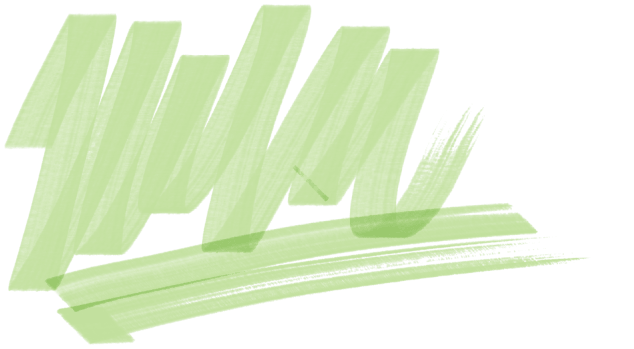
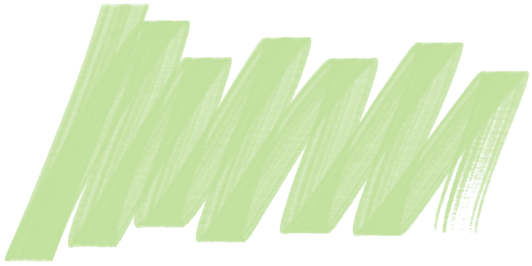
Update images and adjust layout in index.html
Replaced doodle-3b.png and og.png images with updated versions. Modified layout and spacing styles in index.html for improved visual alignment, adjusted image sizes, padding, and gap values, and updated the attendee count from 1 to 2.

diff --git a/index.html b/index.html
@@ -79,8 +79,8 @@
   <body>
     <main>
       <div>
-        <div style="display: flex; flex-direction: column; justify-content: center; align-items: center; gap: 24px; min-height: 100svh; padding-bottom: 174px;">
-          <img width="52" height="150" style="margin-left: -12px;" src="./images/doodle-1.png">
+        <div style="display: flex; flex-direction: column; justify-content: center; align-items: center; gap: 21px; min-height: 100svh; padding-bottom: 119px;">
+          <img width="34" height="148" style="margin-left: -12px;" src="./images/doodle-1.png">
           <div style="margin-left: 1px; position: relative; display: flex; flex-direction: column; justify-content: space-between; width: 424px; max-width: calc(100% - 38px); height: 234px; padding: 20px 36px 22px 26px; background-size: 100% 100%; background-image: url('./images/envelope.png');">
             <img style="position: absolute; top: 18px; right: 22px; height: 75px;" src="./images/stamp.png">
             <div style="align-self: flex-start; color: #000; line-height: 17px; letter-spacing: 0.009em; font-size: 13px; font-weight: 200;">
@@ -105,10 +105,10 @@
       <div style="background: linear-gradient(to bottom, rgba(0, 0, 0, 0), rgba(0, 0, 0, 0.0625));">
         <div style="position: sticky; top: 0; display: flex; flex-direction: column; justify-content: center; align-items: center; min-height: 100lvh;">
           <div style="position: relative;">
-            <div style="color: #000; letter-spacing: -0.027em; font-size: 40px; font-family: Gaegu, system-ui;">멀리 달리 살았지만</div>
+            <div style="color: #000; letter-spacing: -0.022em; font-size: 40px; font-family: Gaegu, system-ui;">멀리 달리 살았지만</div>
             <img width="384" height="82" style="position: absolute; left: -51px; bottom: -69px;" src="./images/doodle-2.png">
           </div>
-          <div style="position: relative; z-index: 1; margin-top: 24px; display: flex; flex-direction: column; justify-content: center; align-items: center; gap: 10px;">
+          <div style="position: relative; z-index: 1; margin-top: 22px; display: flex; flex-direction: column; justify-content: center; align-items: center; gap: 10px;">
             <div style="color: #555; letter-spacing: -0.02em; font-size: 17px; font-weight: 450;">연말 파티</div>
             <div style="color: #555; letter-spacing: -0.022em; font-size: 17px; font-weight: 450;">2025.12.31 ─ 연남동 공상온도</div>
           </div>
@@ -132,7 +132,7 @@
             <div style="margin-top: 17px; color: #111; line-height: 42px; letter-spacing: -0.034em; font-size: 27px; font-family: Gaegu, system-ui;">2025년 12월 31일<br>오후 7시부터 10시 15분까지</div>
           </div>
           <div style="padding-right: 22px; padding-left: 22px; text-align: center;">
-            <div class="kr-extrabold" style="margin-right: -30px; display: inline-block; padding: 17px 52px 23px 22px; background-size: 100% 100%; background-image: url('./images/doodle-3b.png'); color: #666; letter-spacing: -0.013em; font-size: 16px;">만날 곳</div>
+            <div class="kr-extrabold" style="margin-right: -4px; display: inline-block; padding: 20px 25px 15px 21px; background-size: 100% 100%; background-image: url('./images/doodle-3b.png'); color: #666; letter-spacing: -0.013em; font-size: 16px;">만날 곳</div>
             <div style="margin-top: 17px; color: #111; line-height: 42px; letter-spacing: -0.034em; font-size: 27px; font-family: Gaegu, system-ui;">서울특별시 마포구 동교로23길 40, <a style="color: unset; text-decoration: none; opacity: 0.57;" href="https://map.naver.com/p/entry/place/37438798" target="_blank">공상온도<svg style="margin-left: 2px; width: 14px; height: 14px; vertical-align: 1px; opacity: 0.82;"><use href="#icon-external-link"></svg></a></div>
           </div>
         </div>
@@ -147,7 +147,7 @@
       </div>
     </main>
     <div class="count" style="position: fixed; z-index: 1000; bottom: 20px; left: 50%; height: 40px; padding: 9px 16px 0; background-color: rgba(253, 253, 253, 0.5); border: 1px solid #fff; border-radius: 20px;">
-      <div style="color: #444; letter-spacing: -0.014em; font-size: 15px; font-weight: 250;">올 수 있는 사람들<span style="margin-left: 6px; font-size: 14px; font-weight: 600; vertical-align: 1px;">1</span></div>
+      <div style="color: #444; letter-spacing: -0.014em; font-size: 15px; font-weight: 250;">올 수 있는 사람들<span style="margin-left: 6px; font-size: 14px; font-weight: 600; vertical-align: 1px;">2</span></div>
     </div>
     <svg xmlns="http://www.w3.org/2000/svg" width="0" height="0" style="position: absolute;">
       <symbol id="icon-external-link" viewBox="0 0 32 32">
